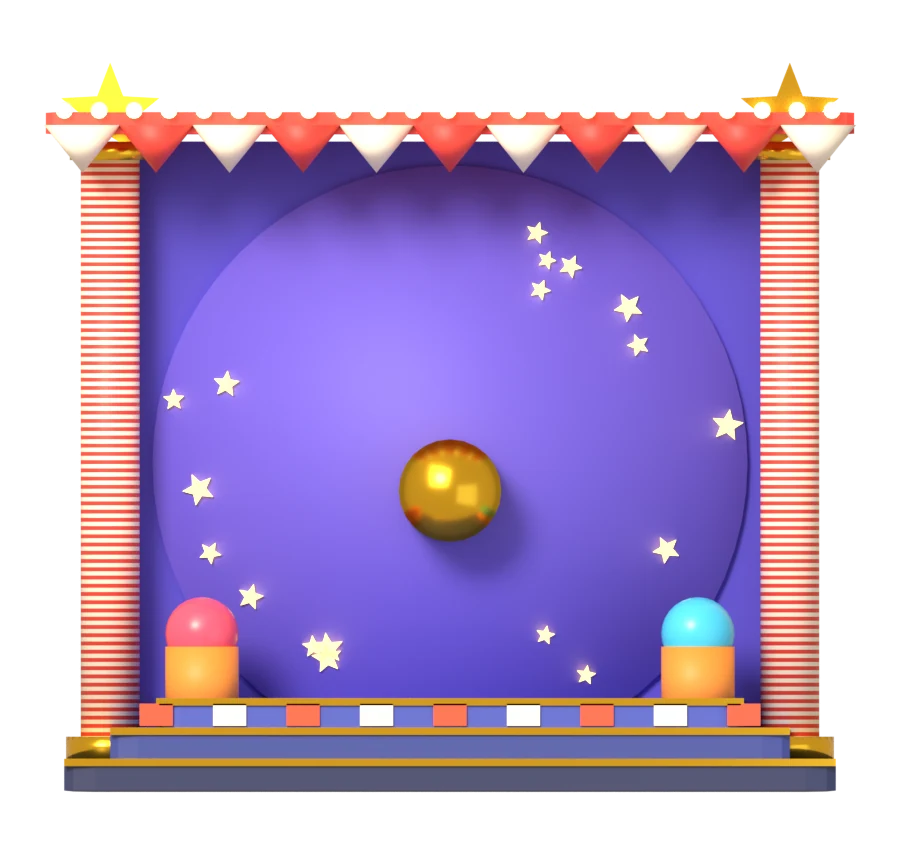
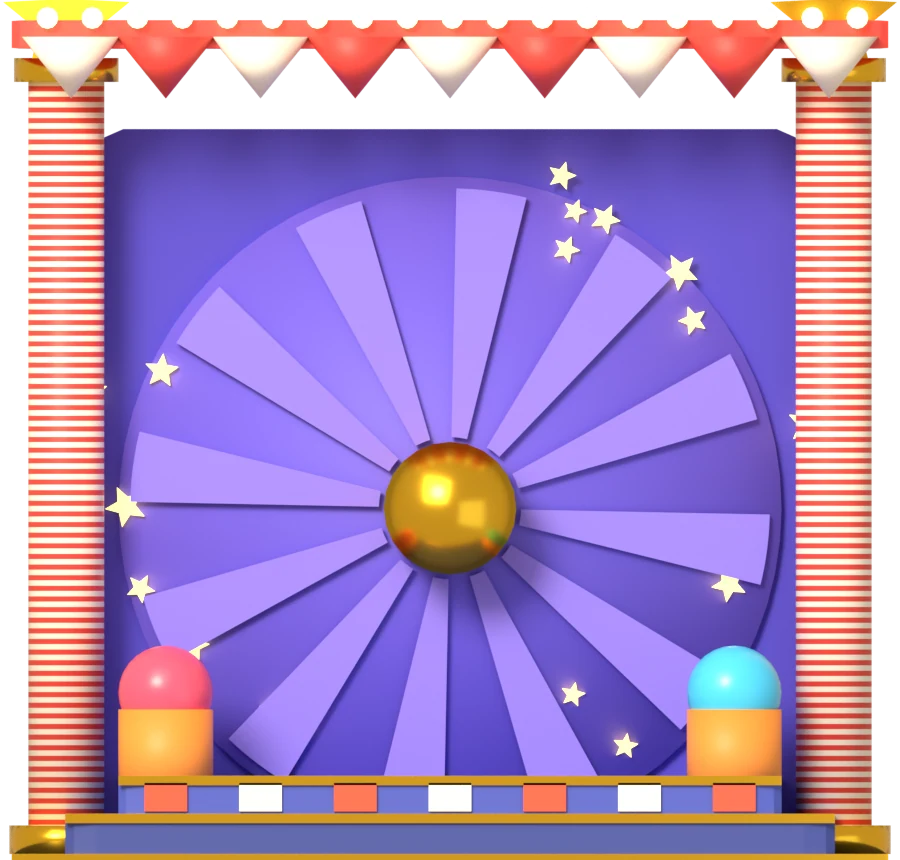
Kolo štěstí: nový model z Blenderu, větší kolo, ikony výher a animace rozpadu
Disk s 12 políčky, větší budka, ikony (medaile, víla, rámeček, banner) a pás snímků
rozpadu kola vyrenderované přes bpy (umime-art/blender/obchod.py, encode.py obchod).

Claude-Session: https://claude.ai/code/session_01HSmZZYugJEmt9LJvj446bc

diff --git a/src/components/Wheel.tsx b/src/components/Wheel.tsx
@@ -9,6 +9,7 @@ import layout from "./kolo-stojan.json";
 import type { Dictionary } from "@/i18n/dictionaries";
 import type { Locale } from "@/i18n/config";
 
+const ICON_FILE = { title: "titul", avatar: "avatar", frame: "ramecek", banner: "banner" } as const;
 const SEGMENT_ANGLE = 360 / WHEEL_PRIZES.length;
 // Svislá poloha popisků od horního okraje kola, v procentech jeho výšky.
 const LABEL_TOP = `${(0.5 - WHEEL_LABEL_RADIUS) * 100}%`;
@@ -44,6 +45,9 @@ export function Wheel({
   const [shown, setShown] = useState(initialPoints);
   const shownRef = useRef(initialPoints);
   const [burst, setBurst] = useState(0);
+  // Po dotočení se kolo rozpadne (sprite z Blenderu) a pak se složí zpět.
+  const [shatter, setShatter] = useState(0);
+  const [reform, setReform] = useState(false);
 
   useEffect(() => {
     const id = setInterval(() => setNow(Date.now()), 30000);
@@ -103,6 +107,9 @@ export function Wheel({
         setWonAmount(data.amount);
         setWonItem(data.item ?? null);
         setBurst((b) => b + 1);
+        setShatter((n) => n + 1);
+        setReform(false);
+        window.setTimeout(() => setReform(true), 1000);
         setPoints(data.points);
         setNextSpinAt(data.nextSpinAt);
       }, 4000);
@@ -125,11 +132,12 @@ export function Wheel({
         <img src="/home/obchod/kolo-stojan.webp" alt="" aria-hidden draggable={false} className="absolute inset-0 h-full w-full select-none" />
         <div className="absolute aspect-square" style={{ left: `${layout.cx * 100}%`, top: `${layout.cy * 100}%`, width: `${layout.disk * 100}%`, transform: "translate(-50%, -50%)" }}>
           <div
-            className="absolute inset-0"
+            className={`absolute inset-0 ${reform ? "wheel-reform" : ""}`}
             style={{
               transform: `rotate(${rotation}deg)`,
               transition: spinning ? "transform 4s cubic-bezier(0.17,0.67,0.12,1)" : "none",
               filter: "drop-shadow(0 6px 8px rgba(10,6,40,0.45))",
+              visibility: shatter > 0 && !reform ? "hidden" : "visible",
             }}
           >
             {/* eslint-disable-next-line @next/next/no-img-element */}
@@ -147,12 +155,25 @@ export function Wheel({
                       textShadow: "0 0 3px #16132b, 0 0 3px #16132b, 0 2px 0 #16132b",
                     }}
                   >
-                    {prize.item ? prize.item.icon : prize.amount}
+                    {prize.item ? (
+                      // eslint-disable-next-line @next/next/no-img-element
+                      <img src={`/home/obchod/ikona-${ICON_FILE[prize.item.kind]}.webp`} alt={prize.item.name} draggable={false} className="h-12 w-12 select-none sm:h-16 sm:w-16" style={{ filter: "drop-shadow(0 2px 2px rgba(22,19,43,0.6))" }} />
+                    ) : (
+                      prize.amount
+                    )}
                   </span>
                 </div>
               );
             })}
           </div>
+          {shatter > 0 && !reform && (
+            <span
+              key={shatter}
+              aria-hidden
+              className="wheel-shatter pointer-events-none absolute z-20 block"
+              style={{ left: "-31.6%", top: "-31.6%", width: "163.3%", height: "163.3%", backgroundImage: "url(/home/obchod/kolo-rozpad.webp)" }}
+            />
+          )}
           <span
             aria-hidden
             className="globe-sprite pointer-events-none absolute inset-0 block"

diff --git a/src/app/globals.css b/src/app/globals.css
@@ -2662,6 +2662,26 @@ select[aria-invalid="true"] {
     opacity: 0;
   }
 }
+/* Rozpad kola po zatočení: 20 snímků z Blenderu, přehraje se jednou. */
+.wheel-shatter {
+  background-repeat: no-repeat;
+  background-size: 2000% 100%;
+  animation: wheel-shatter 1s steps(20) forwards;
+}
+@keyframes wheel-shatter {
+  to {
+    background-position: 105.263% 0;
+  }
+}
+.wheel-reform {
+  animation: wheel-reform 0.5s cubic-bezier(0.2, 1.4, 0.4, 1) both;
+}
+@keyframes wheel-reform {
+  from {
+    transform: scale(0.3);
+    opacity: 0;
+  }
+}
 .wheel-chest {
   animation: wheel-chest 0.7s cubic-bezier(0.2, 1.5, 0.4, 1) both;
 }
@@ -2709,6 +2729,8 @@ select[aria-invalid="true"] {
 @media (prefers-reduced-motion: reduce) {
   .wheel-win,
   .wheel-chest,
+  .wheel-shatter,
+  .wheel-reform,
   .wheel-confetti,
   .wheel-coin {
     animation: none;

diff --git a/umime-art/blender/obchod.py b/umime-art/blender/obchod.py
@@ -11,7 +11,8 @@ import bmesh
 
 M = lambda n, c, **k: material(n, c, **k)
 TAU = math.tau
-PRIZE_COLORS = ["#3248f0", "#ff5a3c", "#ffc933", "#17a864", "#29a3ff", "#ff5a3c", "#3248f0", "#ffc933"]  # = WHEEL_PRIZES
+PRIZE_COLORS = ["#3248f0", "#ff5a3c", "#ffc933", "#17a864", "#29a3ff", "#9b5cf0"] * 2  # = WHEEL_PRIZES (12 políček)
+N = len(PRIZE_COLORS)
 GOLD = lambda n="g": M(n, "#ffc933", roughness=0.22, metallic=1.0)
 
 
@@ -91,26 +92,139 @@ def X(o, rot=(math.radians(90), 0, 0)):
 
 
 # ---------------------------------------------------------------- Disk (otáčí se na webu)
-def kolo_disk():
-    front_cam("obchod_kolo_disk", 512, 512, 2.45)
-    gold = GOLD("kd_g")
+def disk_parts(gold, tag="kd"):
+    """Postaví disk a vrátí pro každé políčko seznam objektů (výseč, lem, tečky, ráfek, kolík) a objekty středu."""
+    groups = []
     for i, c in enumerate(PRIZE_COLORS):
-        a0, a1 = i * TAU / 8 + 0.012, (i + 1) * TAU / 8 - 0.012
-        sector(0.19, 0.93, a0, a1, -0.05, 0.05, M("kd_s%d" % i, c, roughness=0.18), name="seg%d" % i)
-        # světlejší vnitřní lem a drobné bodíky u okraje
+        a0, a1 = i * TAU / N + 0.01, (i + 1) * TAU / N - 0.01
         mid = (a0 + a1) / 2
-        sector(0.80, 0.93, a0 + 0.03, a1 - 0.03, -0.054, 0.05, M("kd_l%d" % i, c, roughness=0.12, metallic=0.2), name="lem%d" % i)
+        g = [sector(0.19, 0.93, a0, a1, -0.05, 0.05, M("%s_s%d" % (tag, i), c, roughness=0.18), name="seg%d" % i),
+             sector(0.80, 0.93, a0 + 0.025, a1 - 0.025, -0.054, 0.05, M("%s_l%d" % (tag, i), c, roughness=0.12, metallic=0.2), name="lem%d" % i),
+             sector(0.93, 1.03, a0 - 0.01, a1 + 0.01, -0.07, 0.07, gold, name="rim%d" % i)]
         for d in (-0.35, 0, 0.35):
             aa = mid + d * (a1 - a0) * 0.6
-            sphere((0.86 * math.sin(aa), -0.06, 0.86 * math.cos(aa)), 0.018, M("kd_d", "#fff7d0", roughness=0.2), seg=8, rings=6)
-    # zlatý ráfek, pivo a kolíčky mezi políčky
-    X(torus((0, 0, 0), 0.97, 0.07, gold))
-    X(torus((0, 0, 0), 0.2, 0.035, gold))
-    for k in range(8):
-        a = k * TAU / 8
-        bar((0.2 * math.sin(a), -0.045, 0.2 * math.cos(a)), (0.95 * math.sin(a), -0.045, 0.95 * math.cos(a)), 0.014, gold, verts=8)
-        sphere((0.985 * math.sin(a), -0.07, 0.985 * math.cos(a)), 0.04, GOLD("kd_pg"), seg=12, rings=8)
+            g.append(sphere((0.86 * math.sin(aa), -0.06, 0.86 * math.cos(aa)), 0.018, M("%s_d" % tag, "#fff7d0", roughness=0.2), seg=8, rings=6))
+        a = i * TAU / N
+        g.append(bar((0.2 * math.sin(a), -0.045, 0.2 * math.cos(a)), (0.95 * math.sin(a), -0.045, 0.95 * math.cos(a)), 0.014, gold, verts=8))
+        g.append(sphere((1.0 * math.sin(a), -0.08, 1.0 * math.cos(a)), 0.045, GOLD("%s_pg" % tag), seg=12, rings=8))
+        groups.append((mid, g))
+    hub = [X(torus((0, 0, 0), 0.2, 0.035, gold)), sphere((0, -0.05, 0), 0.19, M("%s_hub" % tag, "#ffffff", roughness=0.25), scale=(1, 0.25, 1), seg=24, rings=10)]
+    return groups, hub
+
+
+def kolo_disk():
+    front_cam("obchod_kolo_disk", 1024, 1024, 2.45, samples=128)
+    disk_parts(GOLD("kd_g"))
     run(lambda t: None, "obchod_kolo_disk")
+
+
+# ---------------------------------------------------------------- Rozpad kola: výseče se rozletí a zmizí
+def kolo_rozpad():
+    front_cam("obchod_kolo_rozpad", 640, 640, 4.0, frames=20, samples=40)
+    groups, hub = disk_parts(GOLD("kr_g"), "kr")
+    pivots = []
+    for mid, g in groups:
+        piv = empty()
+        piv.location = (0, 0, 0)
+        for o in g:
+            child(o, piv)
+        pivots.append((mid, piv))
+    hub_piv = empty()
+    for o in hub:
+        child(o, hub_piv)
+    sparks = [star(0.09, 0.04, glow("kr_sp%d" % k, "#ffe27a", 6.0), -0.2, "sp%d" % k, rot=0.5 * k, thick=0.01) for k in range(18)]
+
+    def ease(x):
+        return 1 - (1 - min(1.0, max(0.0, x))) ** 3
+
+    @anim
+    def _rozpad(t):
+        k = ease((t - 0.1) / 0.8)
+        shrink = max(0.0, (t - 0.55) / 0.45)
+        for i, (mid, piv) in enumerate(pivots):
+            d = 2.4 * k
+            piv.location = (d * math.sin(mid), -0.3 * k, d * math.cos(mid))
+            piv.rotation_euler = (math.radians(60) * k * (1 if i % 2 else -1), math.radians(150) * k * (1 if i % 3 else -1), math.radians(220) * k * (-1 if i % 2 else 1))
+            sc = max(0.001, 1.0 - shrink ** 1.5)
+            piv.scale = (sc, sc, sc)
+        hs = max(0.001, 1.0 - max(0.0, (t - 0.3) / 0.4) ** 1.5)
+        hub_piv.scale = (hs, hs, hs)
+        for i, sp in enumerate(sparks):
+            a = i * TAU / len(sparks) + 0.3
+            q = max(0.0, (t - 0.12) / 0.8)
+            r = 0.3 + 2.0 * ease(q)
+            s_ = max(0.0, math.sin(math.pi * min(1.0, q))) * 1.4
+            sp.location = (r * math.sin(a), -0.2, r * math.cos(a))
+            sp.scale = (s_, s_, s_)
+
+    run(lambda t: None, "obchod_kolo_rozpad")
+
+
+# ---------------------------------------------------------------- Ikony výher (místo emoji na kole)
+def ikona_cam(name):
+    front_cam(name, 256, 256, 2.6, samples=96)
+
+
+def ikona_titul():
+    """Medaile s hvězdou na stuze."""
+    ikona_cam("obchod_ikona_titul")
+    gold, red = GOLD("it_g"), M("it_r", "#e8453c", roughness=0.4)
+    for sx in (-1, 1):
+        box((sx * 0.28, 0.02, 0.62), (0.34, 0.04, 1.0), red if sx > 0 else M("it_b", "#3248f0", roughness=0.4), rot=(0, math.radians(sx * 22), 0), bevel=0.01)
+    X(cyl((0, 0, -0.1), 0.62, 0.12, gold, verts=48))
+    X(cyl((0, -0.07, -0.1), 0.48, 0.05, M("it_in", "#ffd84a", roughness=0.2, metallic=1.0), verts=48))
+    star(0.34, 0.15, M("it_st", "#ff5a3c", roughness=0.3), -0.14, "medstar", thick=0.06).location = (0, 0, -0.1)
+    run(lambda t: None, "obchod_ikona_titul")
+
+
+def ikona_avatar():
+    """Víla: hlava s vlasy, křídla a hůlka."""
+    ikona_cam("obchod_ikona_avatar")
+    skin, hair = M("ia_sk", "#ffd0b0", roughness=0.5), M("ia_h", "#ff7ab8", roughness=0.4)
+    wing = M("ia_w", "#bfe8ff", roughness=0.15, metallic=0.2)
+    for sx in (-1, 1):
+        sphere((sx * 0.62, 0.15, 0.25), 0.5, wing, scale=(0.55, 0.08, 1.0), seg=24, rings=14).rotation_euler = (0, math.radians(sx * 28), 0)
+        sphere((sx * 0.5, 0.15, -0.35), 0.34, wing, scale=(0.55, 0.08, 0.9), seg=24, rings=14).rotation_euler = (0, math.radians(-sx * 25), 0)
+    sphere((0, 0.05, -0.55), 0.5, M("ia_dr", "#9b5cf0", roughness=0.4), scale=(1.0, 0.6, 0.8), seg=24, rings=14)
+    sphere((0, 0.04, 0.12), 0.52, hair, scale=(1.08, 0.85, 1.08), seg=32, rings=20)
+    sphere((0, -0.1, 0.05), 0.44, skin, seg=32, rings=20)
+    for sx in (-1, 1):
+        sphere((sx * 0.16, -0.5, 0.07), 0.055, M("ia_e", "#2a2050", roughness=0.3), seg=12, rings=8)
+        sphere((sx * 0.27, -0.46, -0.06), 0.06, M("ia_c", "#ff9aa8", roughness=0.5), scale=(1, 0.5, 0.7), seg=12, rings=8)
+    sphere((0, -0.52, -0.08), 0.045, M("ia_m", "#e0505a", roughness=0.4), scale=(1.6, 0.6, 0.8), seg=12, rings=8)
+    bar((0.55, -0.2, -0.75), (0.9, -0.2, 0.0), 0.025, M("ia_wd", "#8a5a34", roughness=0.5), verts=10)
+    star(0.2, 0.09, GOLD("ia_g"), -0.24, "wand", thick=0.05).location = (0.9, 0, 0.05)
+    run(lambda t: None, "obchod_ikona_avatar")
+
+
+def ikona_ramecek():
+    """Zlatý rámeček s obrázkem krajiny."""
+    ikona_cam("obchod_ikona_ramecek")
+    gold = GOLD("ir_g")
+    box((0, 0.1, 0), (1.5, 0.06, 1.2), M("ir_sky", "#4ac8ff", roughness=0.5), bevel=0)
+    sphere((0.35, 0.05, 0.22), 0.17, glow("ir_sun", "#ffe27a", 3.0), scale=(1, 0.3, 1), seg=20, rings=12)
+    sphere((-0.15, 0.04, -0.45), 0.5, M("ir_hill", "#3fa752", roughness=0.6), scale=(1.25, 0.15, 0.45), seg=24, rings=14)
+    for (cx, cz, w, h) in ((0, 0.69, 1.74, 0.2), (0, -0.69, 1.74, 0.2), (-0.77, 0, 0.2, 1.4), (0.77, 0, 0.2, 1.4)):
+        box((cx, -0.02 - 0.01 * (w > h), cz), (w, 0.12, h), gold, bevel=0.0)
+    for (cx, cz) in ((-0.82, 0.74), (0.82, 0.74), (-0.82, -0.74), (0.82, -0.74)):
+        sphere((cx, -0.08, cz), 0.1, GOLD("ir_k"), seg=14, rings=10)
+    run(lambda t: None, "obchod_ikona_ramecek")
+
+
+def ikona_banner():
+    """Vlajka-banner se západem slunce na tyči."""
+    ikona_cam("obchod_ikona_banner")
+    gold = GOLD("ib_g")
+    box((0, 0.05, 0.05), (1.6, 0.05, 1.1), M("ib_bg", "#ff8a4c", roughness=0.5), bevel=0.01)
+    box((0, 0.04, -0.2), (1.6, 0.06, 0.5), M("ib_bg2", "#e0508c", roughness=0.5), bevel=0.0)
+    sphere((0, -0.0, -0.02), 0.34, glow("ib_sun", "#ffe27a", 3.0), scale=(1, 0.2, 1), seg=24, rings=14)
+    box((0, 0.03, -0.43), (1.6, 0.07, 0.14), M("ib_sea", "#3248f0", roughness=0.3), bevel=0.0)
+    cyl((0, 0.0, 0.66), 0.045, 1.9, gold, rot=(0, math.radians(90), 0), verts=16)
+    for sx in (-1, 1):
+        sphere((sx * 0.96, 0.0, 0.66), 0.08, gold, seg=12, rings=8)
+    for k in range(5):
+        cone((-0.64 + k * 0.32, -0.02, -0.68), 0.12, 0.0, 0.25, M("ib_t", "#ffd84a", roughness=0.4), verts=3, rot=(math.radians(180), 0, 0))
+    run(lambda t: None, "obchod_ikona_banner")
 
 
 # ---------------------------------------------------------------- Popředí kola: žárovky, nába a ručička
@@ -155,15 +269,18 @@ def kolo_predni():
 # ---------------------------------------------------------------- Stojan (budka) kolem kola
 def kolo_stojan():
     W, H = 900, 860
-    OS = 4.9
+    OS = 3.8
     CZ = 0.33
     front_cam("obchod_kolo_stojan", W, H, OS, cz=CZ)
     gold = GOLD("ks_g")
     red, white = M("ks_r", "#e8453c", roughness=0.5), M("ks_w", "#fff6e6", roughness=0.5)
     wood, dark = M("ks_wd", "#8a5a34", roughness=0.6), M("ks_dk", "#2b3560", roughness=0.4, metallic=0.5)
     # zadní panel (hvězdičkový) a oblouk
-    box((0, 0.5, 0.15), (3.5, 0.12, 3.5), M("ks_back", "#4a3fc4", roughness=0.7), bevel=0.04)
-    cyl((0, 0.45, 0.15), 1.62, 0.1, M("ks_back2", "#6a5ae0", roughness=0.6), rot=(math.radians(90), 0, 0), verts=64)
+    box((0, 0.5, 0.0), (3.0, 0.12, 3.2), M("ks_back", "#4a3fc4", roughness=0.7), bevel=0.04)
+    cyl((0, 0.45, 0.0), 1.4, 0.1, M("ks_back2", "#6a5ae0", roughness=0.6), rot=(math.radians(90), 0, 0), verts=64)
+    ray = M("ks_ray", "#8a78f0", roughness=0.7)
+    for k in range(12):
+        sector(0.3, 1.35, (2 * k) * TAU / 24 + 0.02, (2 * k + 1) * TAU / 24 - 0.02, 0.36, 0.38, ray, name="ray%d" % k).location = (0, 0, 0.0)
     rnd = random.Random(7)
     for k in range(18):
         a = rnd.uniform(0, TAU)
@@ -172,28 +289,28 @@ def kolo_stojan():
         star(s, s * 0.45, glow("ks_st%d" % k, "#ffe27a", 2.0), 0.38, "bs%d" % k, rot=a, thick=0.02).location = (r * math.sin(a), 0.0, 0.15 + r * math.cos(a) * 0.8)
     # sloupy po stranách s hvězdnými hlavicemi
     for sx in (-1, 1):
-        cyl((sx * 1.85, 0.2, 0.2), 0.16, 3.2, striped_material("ks_pil%d" % sx, "#e8453c", "#fff6e6", freq=7, roughness=0.5, axis="Z"), verts=24)
-        cyl((sx * 1.85, 0.2, 1.85), 0.22, 0.1, gold, verts=24)
-        star(0.28, 0.12, gold, 0.1, "fin%d" % sx, thick=0.1).location = (sx * 1.85, 0.0, 2.05)
-        cyl((sx * 1.85, 0.2, -1.4), 0.24, 0.12, gold, verts=24)
+        cyl((sx * 1.62, 0.2, 0.2), 0.16, 3.2, striped_material("ks_pil%d" % sx, "#e8453c", "#fff6e6", freq=7, roughness=0.5, axis="Z"), verts=24)
+        cyl((sx * 1.62, 0.2, 1.85), 0.22, 0.1, gold, verts=24)
+        star(0.28, 0.12, gold, 0.1, "fin%d" % sx, thick=0.1).location = (sx * 1.62, 0.0, 2.05)
+        cyl((sx * 1.62, 0.2, -1.4), 0.24, 0.12, gold, verts=24)
     # stříška s volány a žárovkami
-    box((0, 0.1, 2.0), (4.4, 0.8, 0.12), red, bevel=0.03)
-    for k in range(11):
-        x = -2.0 + k * 0.4
+    box((0, 0.1, 2.0), (3.7, 0.8, 0.12), red, bevel=0.03)
+    for k in range(9):
+        x = -1.6 + k * 0.4
         cone((x, -0.28, 1.86), 0.21, 0.0, 0.26, red if k % 2 else white, verts=24, rot=(math.radians(180), 0, 0))
-    for k in range(23):
-        sphere((-2.1 + k * 0.19, -0.33, 2.07), 0.045, glow("ks_bl%d" % k, "#fff0b0", 3.0), seg=8, rings=6)
+    for k in range(19):
+        sphere((-1.7 + k * 0.19, -0.33, 2.07), 0.045, glow("ks_bl%d" % k, "#fff0b0", 3.0), seg=8, rings=6)
     # podstavec: tři stupně se zlatými lištami a šachovnicí
-    for i, (w, z, c) in enumerate(((4.2, -1.55, "#2b3560"), (3.7, -1.38, "#3b4a9a"), (3.2, -1.22, "#4a5ac0"))):
+    for i, (w, z, c) in enumerate(((3.7, -1.55, "#2b3560"), (3.25, -1.38, "#3b4a9a"), (2.8, -1.22, "#4a5ac0"))):
         box((0, 0.0, z), (w, 1.0, 0.18), M("ks_pd%d" % i, c, roughness=0.5), bevel=0.04)
         box((0, -0.5, z + 0.07), (w, 0.03, 0.04), gold, bevel=0.005)
-    for k in range(9):
-        box((-1.6 + k * 0.4, -0.5, -1.22), (0.18, 0.03, 0.12), M("ks_ck%d" % (k % 2), "#fff6e6" if k % 2 else "#ff5a3c", roughness=0.5), bevel=0)
+    for k in range(7):
+        box((-1.2 + k * 0.4, -0.5, -1.22), (0.18, 0.03, 0.12), M("ks_ck%d" % (k % 2), "#fff6e6" if k % 2 else "#ff5a3c", roughness=0.5), bevel=0)
     # držák kola (zlatá osa) a stoličky po stranách
     cyl((0, 0.25, 0.0), 0.28, 0.5, gold, rot=(math.radians(90), 0, 0), verts=24)
     for sx in (-1, 1):
-        cyl((sx * 1.35, -0.2, -1.05), 0.2, 0.4, M("ks_pl%d" % sx, "#ff9a3c", roughness=0.5), verts=24)
-        sphere((sx * 1.35, -0.2, -0.78), 0.2, M("ks_ba%d" % sx, ["#ff5a7a", "#4ad0ff"][(sx + 1) // 2], roughness=0.3), seg=20, rings=14)
+        cyl((sx * 1.2, -0.2, -1.05), 0.2, 0.4, M("ks_pl%d" % sx, "#ff9a3c", roughness=0.5), verts=24)
+        sphere((sx * 1.2, -0.2, -0.78), 0.2, M("ks_ba%d" % sx, ["#ff5a7a", "#4ad0ff"][(sx + 1) // 2], roughness=0.3), seg=20, rings=14)
     os.makedirs(os.path.join(OUT, "obchod_kolo_stojan"), exist_ok=True)
     # střed kola na obrázku (podíly) a velikost disku
     cx_frac = 0.5
@@ -441,7 +558,7 @@ def stanek_poklad():
     run(lambda t: None, "obchod_stanek_poklad")
 
 
-JOBS = {"kolo_disk": kolo_disk, "kolo_predni": kolo_predni, "kolo_stojan": kolo_stojan, "stanek_mince": stanek_mince, "stanek_truhla": stanek_truhla, "stanek_poklad": stanek_poklad}
+JOBS = {"kolo_disk": kolo_disk, "kolo_rozpad": kolo_rozpad, "ikona_titul": ikona_titul, "ikona_avatar": ikona_avatar, "ikona_ramecek": ikona_ramecek, "ikona_banner": ikona_banner, "kolo_predni": kolo_predni, "kolo_stojan": kolo_stojan, "stanek_mince": stanek_mince, "stanek_truhla": stanek_truhla, "stanek_poklad": stanek_poklad}
 
 if __name__ == "__main__":
     for w in [a for a in args() if a in JOBS]:

diff --git a/umime-art/encode.py b/umime-art/encode.py
@@ -203,10 +203,16 @@ def obchod():
     dest_dir = os.path.join(DEST, "..", "obchod")
     os.makedirs(dest_dir, exist_ok=True)
     for src, dest, q in (("obchod_kolo_stojan", "kolo-stojan.webp", 88), ("obchod_kolo_disk", "kolo-disk.webp", 90)):
-        im = frames(src)[0]
+        im = frames(src, (768, 768) if "disk" in src else None)[0]
         path = os.path.join(dest_dir, dest)
         im.save(path, format="WEBP", quality=q, method=5, alpha_quality=92)
         print(dest, round(os.path.getsize(path) / 1024), "kB", im.size)
+    for n in ("titul", "avatar", "ramecek", "banner"):
+        im = frames("obchod_ikona_" + n)[0]
+        im.save(os.path.join(dest_dir, "ikona-" + n + ".webp"), format="WEBP", quality=90, method=5, alpha_quality=92)
+    # rozpad kola: pás snímků vedle sebe (CSS steps)
+    if glob.glob(os.path.join(ROOT, "out", "obchod_kolo_rozpad", "f_*.png")):
+        strip("obchod_kolo_rozpad", "../obchod/kolo-rozpad.webp", (640, 640), quality=80)
     shutil.copy(os.path.join(ROOT, "out", "obchod_kolo_stojan", "layout.json"), os.path.join(ROOT, "..", "src", "components", "kolo-stojan.json"))
     fr = frames("obchod_kolo_predni", (384, 384))
     sheet = Image.new("RGBA", (384 * len(fr), 384), (0, 0, 0, 0))
